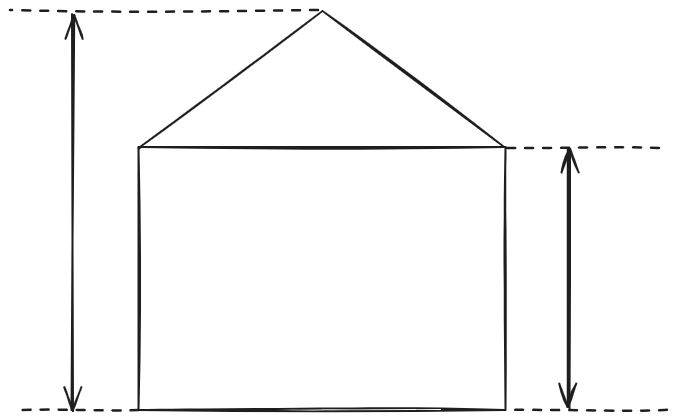
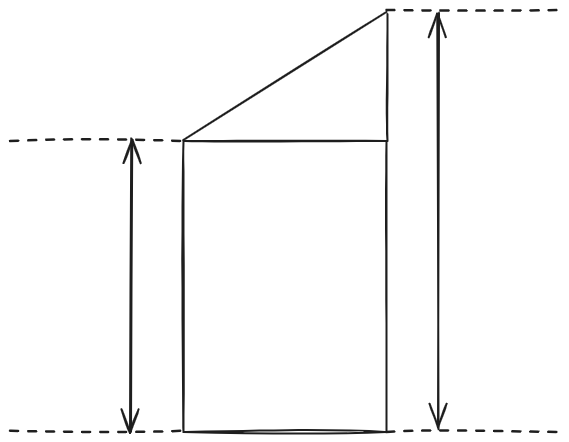
fix: wall height

diff --git a/src/operations/annotator/components/annotator-3d-infos.tsx b/src/operations/annotator/components/annotator-3d-infos.tsx
@@ -1,7 +1,6 @@
 import { useAnnotator3DStore } from '@/common/store';
 import { ExpandMore } from '@mui/icons-material';
 import { Accordion, AccordionDetails, AccordionSummary, Box, FormControlLabel, Switch, Typography } from '@mui/material';
-import { getDistance } from '../utils';
 import { MeasurementIn2D } from './annotator-measurement-2d';
 
 export const Annotator3DInfos = () => {
@@ -26,18 +25,25 @@ export const Annotator3DInfos = () => {
   const boundary = cityObject?.geometry?.[0]?.boundaries?.[boundaryIndex]?.[0];
   const verticles = selectedObject?.object?.citymodel?.vertices || [];
   const points3D = boundary?.map((index: number) => verticles[index]);
-  points3D?.push(points3D[0]);
 
-  const measurements = [];
+  let measurements = [0, 0];
+  const pointsMinMax: Record<string, number> = {};
 
-  for (let i = 1; i < points3D?.length || 0; i++) {
-    const prev = points3D[i - 1];
-    const current = points3D[i];
-    measurements.push(+(getDistance(prev, current) * 0.001).toFixed(2));
+  if (isWall) {
+    points3D.forEach(([x, y, z]: number[]) => {
+      const name = `${x}-${y}`;
+      if (pointsMinMax[name]) {
+        pointsMinMax[name] = Math.abs(pointsMinMax[name] - z);
+      } else {
+        pointsMinMax[name] = z;
+      }
+    });
+
+    measurements = Object.values(pointsMinMax);
   }
 
-  const maxWallHeight = Math.max(...measurements);
-  const minWallHeight = Math.min(...measurements);
+  const maxWallHeight = +(Math.max(...measurements) * 0.001).toFixed(2);
+  const minWallHeight = +(Math.min(...measurements) * 0.001).toFixed(2);
 
   return (
     <Box>
